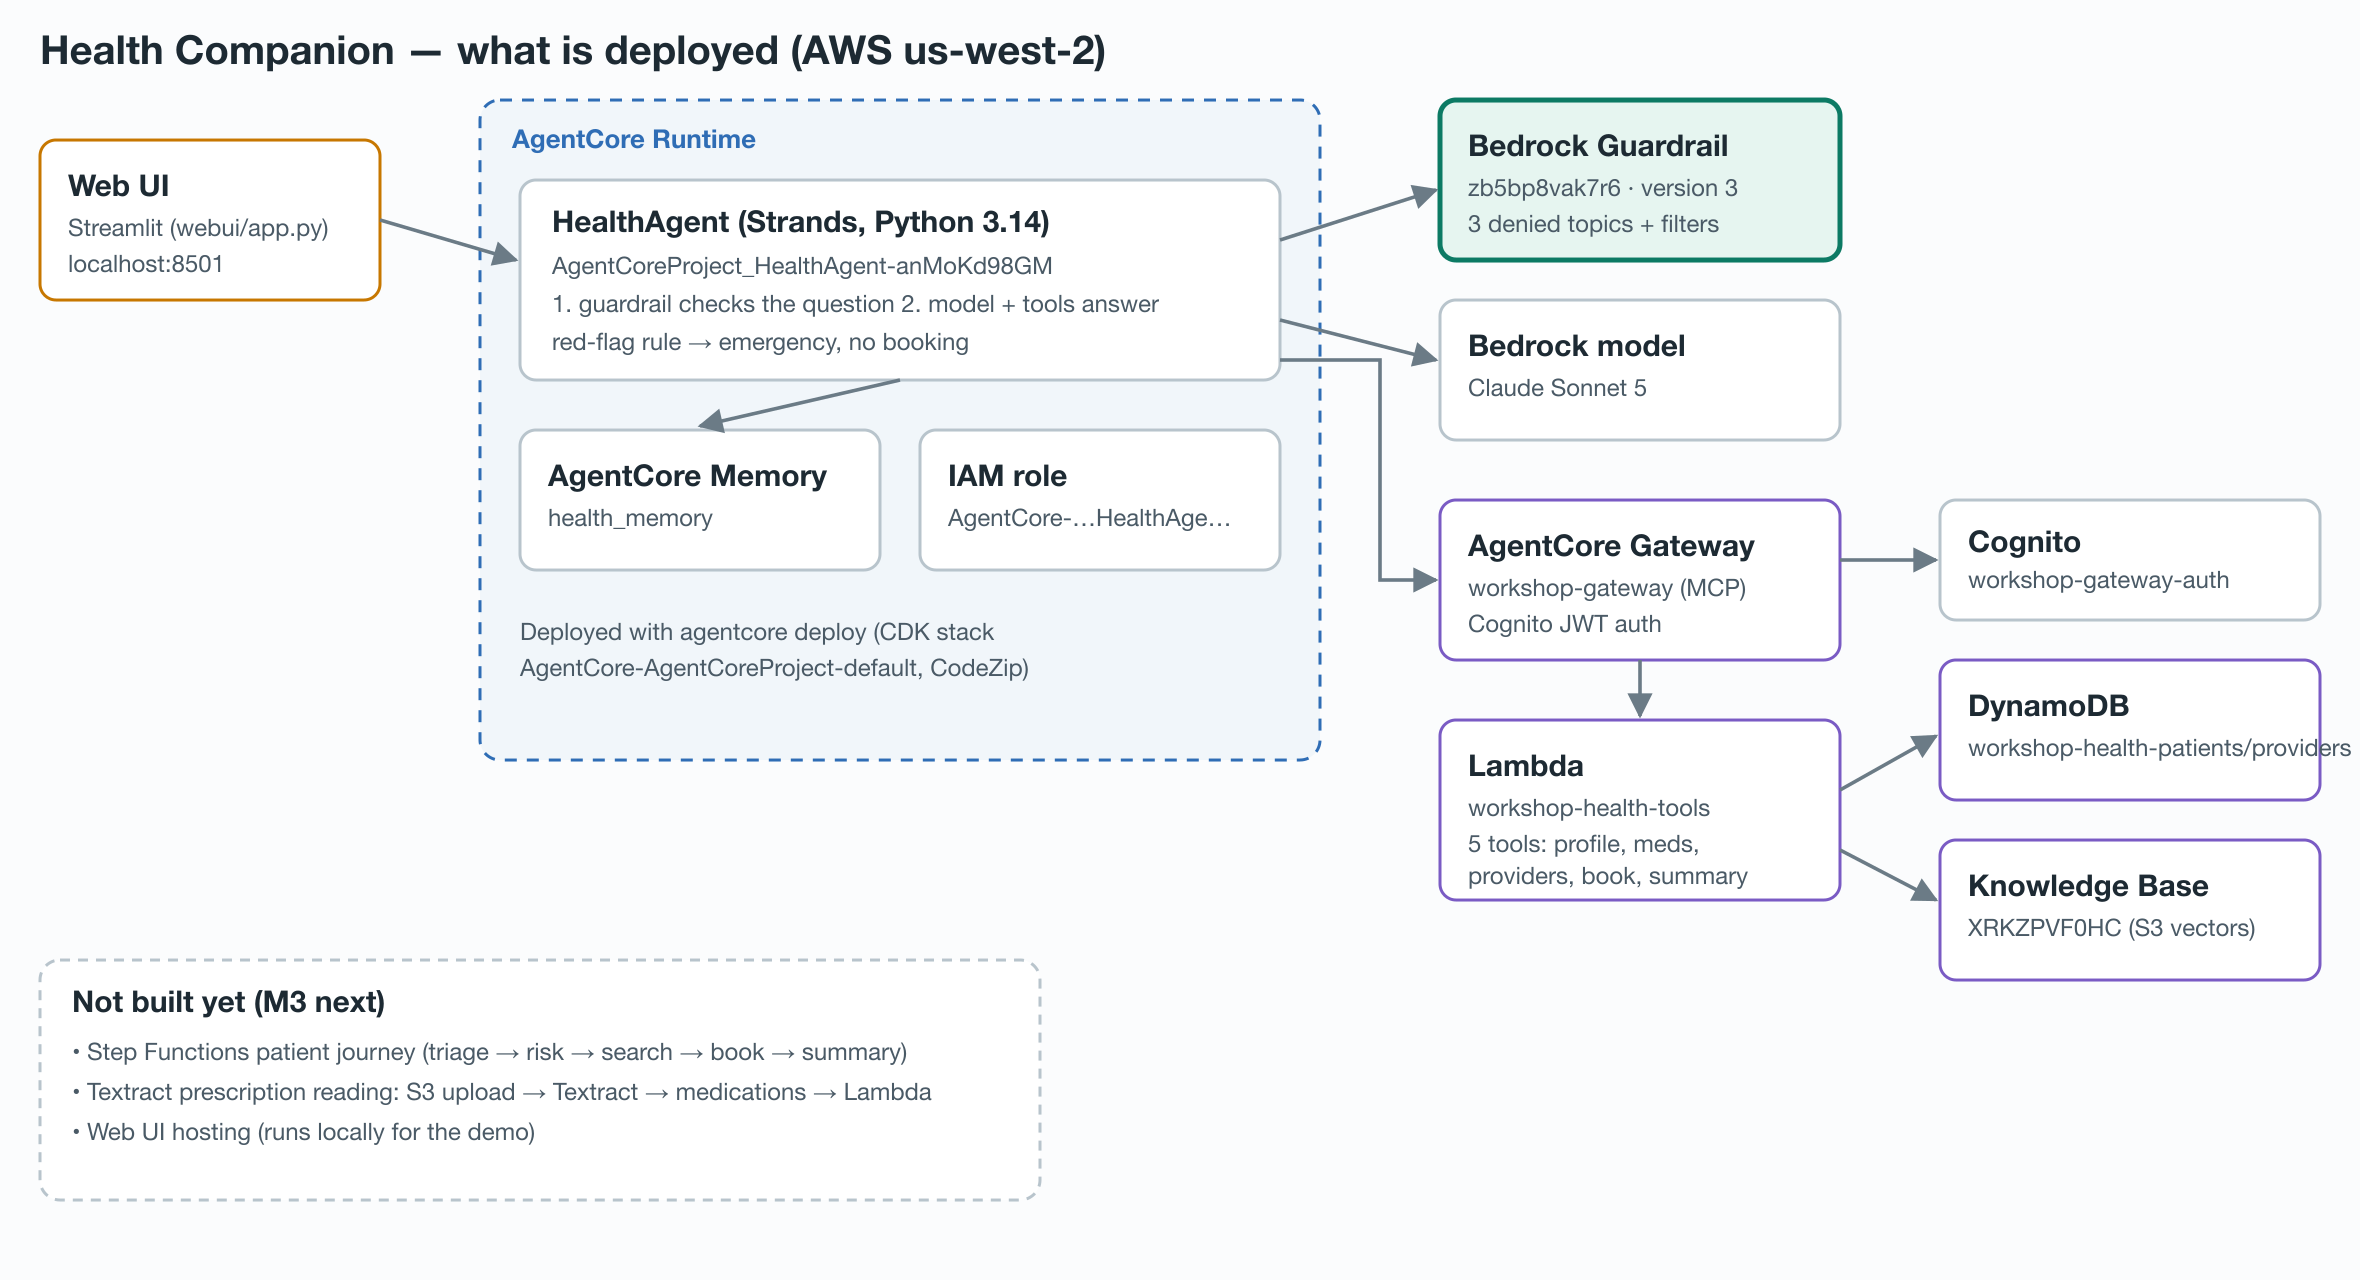
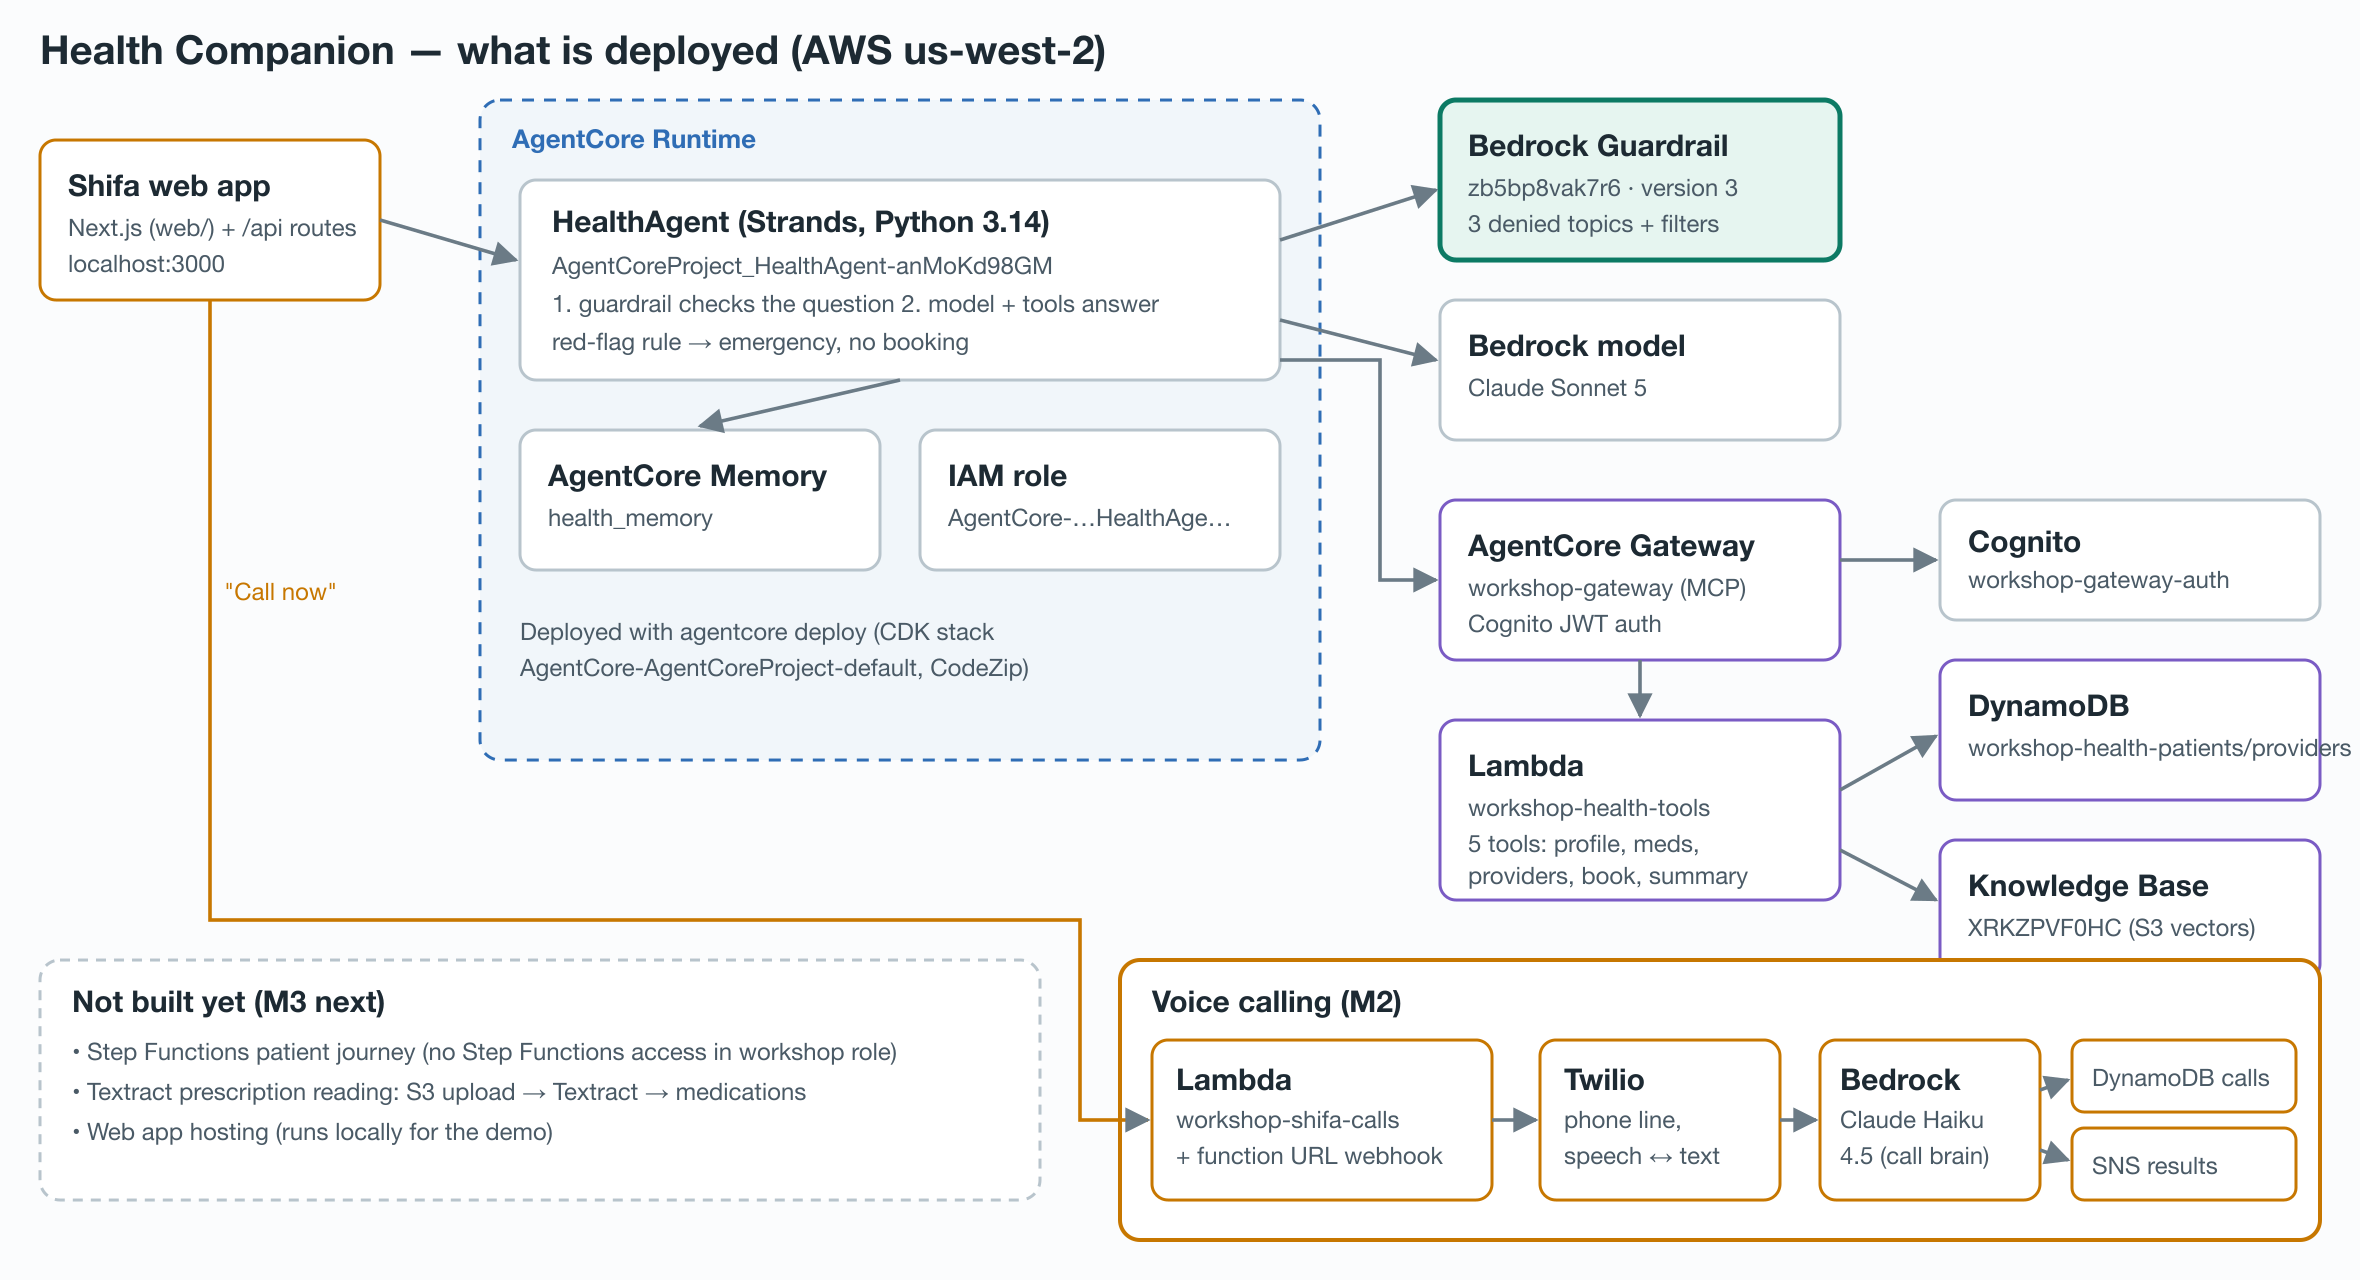
Add clinic booking calls to the Shifa web app
The intake page gets a Call the clinic card that places a booking call
through M2's workshop-shifa-calls Lambda and shows the live transcript
from the calls table. Deployment diagram now shows voice calling.

diff --git a/web/components/call/CallClinicCard.tsx b/web/components/call/CallClinicCard.tsx
@@ -1,0 +1,145 @@
+'use client';
+
+import { useEffect, useRef, useState } from 'react';
+import { Phone } from 'lucide-react';
+import { Card, CardHeader } from '@/components/ui/Card';
+import { Button } from '@/components/ui/Button';
+import { Input } from '@/components/ui/Input';
+import type { PatientContext } from '@/lib/types/journey';
+
+// Places a real booking call through M2's Twilio Lambda and shows the live transcript.
+// On the Twilio trial account only verified numbers can be called.
+
+type CallStatus = 'idle' | 'starting' | 'dialing' | 'in_progress' | 'success' | 'needs_info' | 'failed';
+
+interface CallLine {
+  role: string;
+  text: string;
+}
+
+const STATUS_LABEL: Record<CallStatus, string> = {
+  idle: 'Not started',
+  starting: 'Starting the call…',
+  dialing: 'Dialing…',
+  in_progress: 'On the call',
+  success: 'Booked',
+  needs_info: 'They need more information',
+  failed: 'Not booked',
+};
+
+function nextWindows(): string[] {
+  // Offer the clinic the next two weekday mornings.
+  const out: string[] = [];
+  const d = new Date();
+  while (out.length < 2) {
+    d.setDate(d.getDate() + 1);
+    if (d.getDay() === 0 || d.getDay() === 6) continue;
+    const weekday = d.toLocaleDateString('en-US', { weekday: 'long' });
+    out.push(`${weekday} ${d.toISOString().slice(0, 10)}, 09:00 to 12:00`);
+  }
+  return out;
+}
+
+export function CallClinicCard({ patient }: { patient: PatientContext }) {
+  const [toNumber, setToNumber] = useState('');
+  const [status, setStatus] = useState<CallStatus>('idle');
+  const [lines, setLines] = useState<CallLine[]>([]);
+  const [outcome, setOutcome] = useState<Record<string, unknown>>({});
+  const [error, setError] = useState('');
+  const poll = useRef<ReturnType<typeof setInterval> | null>(null);
+
+  useEffect(() => () => {
+    if (poll.current) clearInterval(poll.current);
+  }, []);
+
+  const start = async () => {
+    setError('');
+    setLines([]);
+    setOutcome({});
+    setStatus('starting');
+    const res = await fetch('/api/call', {
+      method: 'POST',
+      headers: { 'Content-Type': 'application/json' },
+      body: JSON.stringify({
+        callType: 'booking',
+        toNumber: toNumber.trim(),
+        journeyId: `web-${patient.profile.id}`,
+        context: {
+          provider_name: 'Central Clinic Neurology',
+          specialty: 'neurology',
+          urgency: 'SOON',
+          patient_windows: nextWindows(),
+          patient_name: patient.profile.name,
+        },
+      }),
+    });
+    const data = await res.json();
+    if (!res.ok) {
+      setError(data.error);
+      setStatus('idle');
+      return;
+    }
+    setStatus('dialing');
+    poll.current = setInterval(async () => {
+      const r = await fetch(`/api/call/${data.callId}`);
+      if (!r.ok) return;
+      const call = await r.json();
+      setStatus(call.status);
+      setLines(call.history);
+      setOutcome(call.outcome);
+      if (!['dialing', 'in_progress'].includes(call.status) && poll.current) {
+        clearInterval(poll.current);
+        poll.current = null;
+      }
+    }, 3000);
+  };
+
+  const busy = ['starting', 'dialing', 'in_progress'].includes(status);
+
+  return (
+    <Card>
+      <CardHeader title="Call the clinic to book" />
+      <div className="space-y-md">
+        <p className="text-body-sm text-slate-muted">
+          Shifa phones the clinic, asks for a neurology slot for {patient.profile.name}, and reports back.
+        </p>
+        <Input
+          id="call-to-number"
+          label="Clinic phone (verified number)"
+          placeholder="+971501234567"
+          value={toNumber}
+          onChange={(e) => setToNumber(e.target.value)}
+          disabled={busy}
+          error={error || undefined}
+        />
+        <Button onClick={start} loading={busy} disabled={busy || !toNumber.trim()} icon={<Phone size={16} />} fullWidth>
+          {busy ? STATUS_LABEL[status] : 'Call now'}
+        </Button>
+        {status !== 'idle' && (
+          <p className="text-body-sm font-medium text-navy" aria-live="polite">
+            Status: {STATUS_LABEL[status] ?? status}
+          </p>
+        )}
+        {lines.length > 0 && (
+          <div className="max-h-56 overflow-y-auto space-y-1 text-body-sm border-t border-border pt-sm">
+            {lines.map((l, i) => (
+              <p key={i}>
+                <span className="font-medium text-navy">{l.role === 'shifa' ? 'Shifa' : 'Clinic'}:</span>{' '}
+                <span className="text-slate">{l.text}</span>
+              </p>
+            ))}
+          </div>
+        )}
+        {status === 'success' && (
+          <p className="text-body-sm text-navy">
+            Appointment: {String(outcome.weekday ?? '')} {String(outcome.date ?? '')} at {String(outcome.time ?? '')}
+            {outcome.doctor_name ? ` with ${String(outcome.doctor_name)}` : ''}
+          </p>
+        )}
+        {status === 'failed' && outcome.reason ? (
+          <p className="text-body-sm text-slate">Reason: {String(outcome.reason).replace('_', ' ')}</p>
+        ) : null}
+      </div>
+    </Card>
+  );
+}

diff --git a/web/app/api/call/route.ts b/web/app/api/call/route.ts
@@ -1,0 +1,45 @@
+import { InvokeCommand, LambdaClient } from '@aws-sdk/client-lambda';
+
+// Starts an outbound call through M2's Lambda (Twilio + Bedrock). Server only.
+const REGION = process.env.AWS_REGION ?? process.env.AWS_DEFAULT_REGION ?? 'us-west-2';
+const FUNCTION = process.env.CALLS_FUNCTION ?? 'workshop-shifa-calls';
+const lambda = new LambdaClient({ region: REGION });
+
+interface CallRequest {
+  callType: 'booking' | 'insurance';
+  toNumber: string;
+  lang?: 'en' | 'ar';
+  journeyId?: string;
+  context: Record<string, unknown>;
+}
+
+export async function POST(req: Request) {
+  const body = (await req.json()) as CallRequest;
+  if (!/^\+[1-9]\d{7,14}$/.test(body.toNumber ?? '')) {
+    return Response.json({ error: 'Enter the phone number in international form, for example +971501234567.' }, { status: 400 });
+  }
+  try {
+    const res = await lambda.send(
+      new InvokeCommand({
+        FunctionName: FUNCTION,
+        Payload: new TextEncoder().encode(
+          JSON.stringify({
+            call_type: body.callType,
+            to_number: body.toNumber,
+            lang: body.lang ?? 'en',
+            journey_id: body.journeyId ?? 'web-demo',
+            context: body.context,
+          })
+        ),
+      })
+    );
+    const result = JSON.parse(new TextDecoder().decode(res.Payload));
+    if (!result.call_id) {
+      return Response.json({ error: `Couldn't place the call: ${result.errorMessage ?? JSON.stringify(result)}` }, { status: 502 });
+    }
+    return Response.json({ callId: result.call_id });
+  } catch (err) {
+    const message = err instanceof Error ? err.message : String(err);
+    return Response.json({ error: `Couldn't place the call: ${message}` }, { status: 502 });
+  }
+}

diff --git a/web/app/[locale]/intake/page.tsx b/web/app/[locale]/intake/page.tsx
@@ -6,6 +6,7 @@ import { ChevronDown } from 'lucide-react';
 import { ChatMessageBubble, TypingIndicator } from '@/components/intake/ChatMessage';
 import { ChatInput } from '@/components/intake/ChatInput';
 import { PatientContextCard } from '@/components/intake/PatientContextCard';
+import { CallClinicCard } from '@/components/call/CallClinicCard';
 import { demoMessages, demoPatient } from '@/lib/utils/demo-data';
 import type { ChatMessage, PatientContext } from '@/lib/types/journey';
 import { cn } from '@/lib/utils/cn';
@@ -89,8 +90,11 @@ export default function IntakePage() {
       </div>
 
       {/* ── Desktop: patient context sidebar ── */}
-      <div className="hidden lg:flex flex-col w-80 xl:w-96 border-s border-border bg-subtle shrink-0">
+      <div className="hidden lg:flex flex-col w-80 xl:w-96 border-s border-border bg-subtle shrink-0 overflow-y-auto">
         <PatientContextCard patient={patient} />
+        <div className="px-lg pb-lg">
+          <CallClinicCard patient={patient} />
+        </div>
       </div>
 
       {/* ── Mobile: collapsible context panel ── */}
@@ -116,6 +120,9 @@ export default function IntakePage() {
           )}
         >
           <PatientContextCard patient={patient} />
+          <div className="px-lg pb-lg">
+            <CallClinicCard patient={patient} />
+          </div>
         </div>
       </div>
     </div>

diff --git a/web/app/api/call/[id]/route.ts b/web/app/api/call/[id]/route.ts
@@ -1,0 +1,23 @@
+import { DynamoDBClient } from '@aws-sdk/client-dynamodb';
+import { DynamoDBDocumentClient, GetCommand } from '@aws-sdk/lib-dynamodb';
+
+// Reads a call's live status and transcript from M2's calls table.
+const REGION = process.env.AWS_REGION ?? process.env.AWS_DEFAULT_REGION ?? 'us-west-2';
+const TABLE = process.env.CALLS_TABLE ?? 'workshop-shifa-calls';
+const ddb = DynamoDBDocumentClient.from(new DynamoDBClient({ region: REGION }));
+
+export async function GET(_req: Request, { params }: { params: Promise<{ id: string }> }) {
+  const { id } = await params;
+  try {
+    const { Item } = await ddb.send(new GetCommand({ TableName: TABLE, Key: { call_id: id }, ConsistentRead: true }));
+    if (!Item) return Response.json({ error: `No call ${id}.` }, { status: 404 });
+    return Response.json({
+      status: Item.status as string,
+      history: (Item.history ?? []) as { role: string; text: string }[],
+      outcome: Item.outcome ?? {},
+    });
+  } catch (err) {
+    const message = err instanceof Error ? err.message : String(err);
+    return Response.json({ error: `Couldn't read call ${id}: ${message}` }, { status: 502 });
+  }
+}
